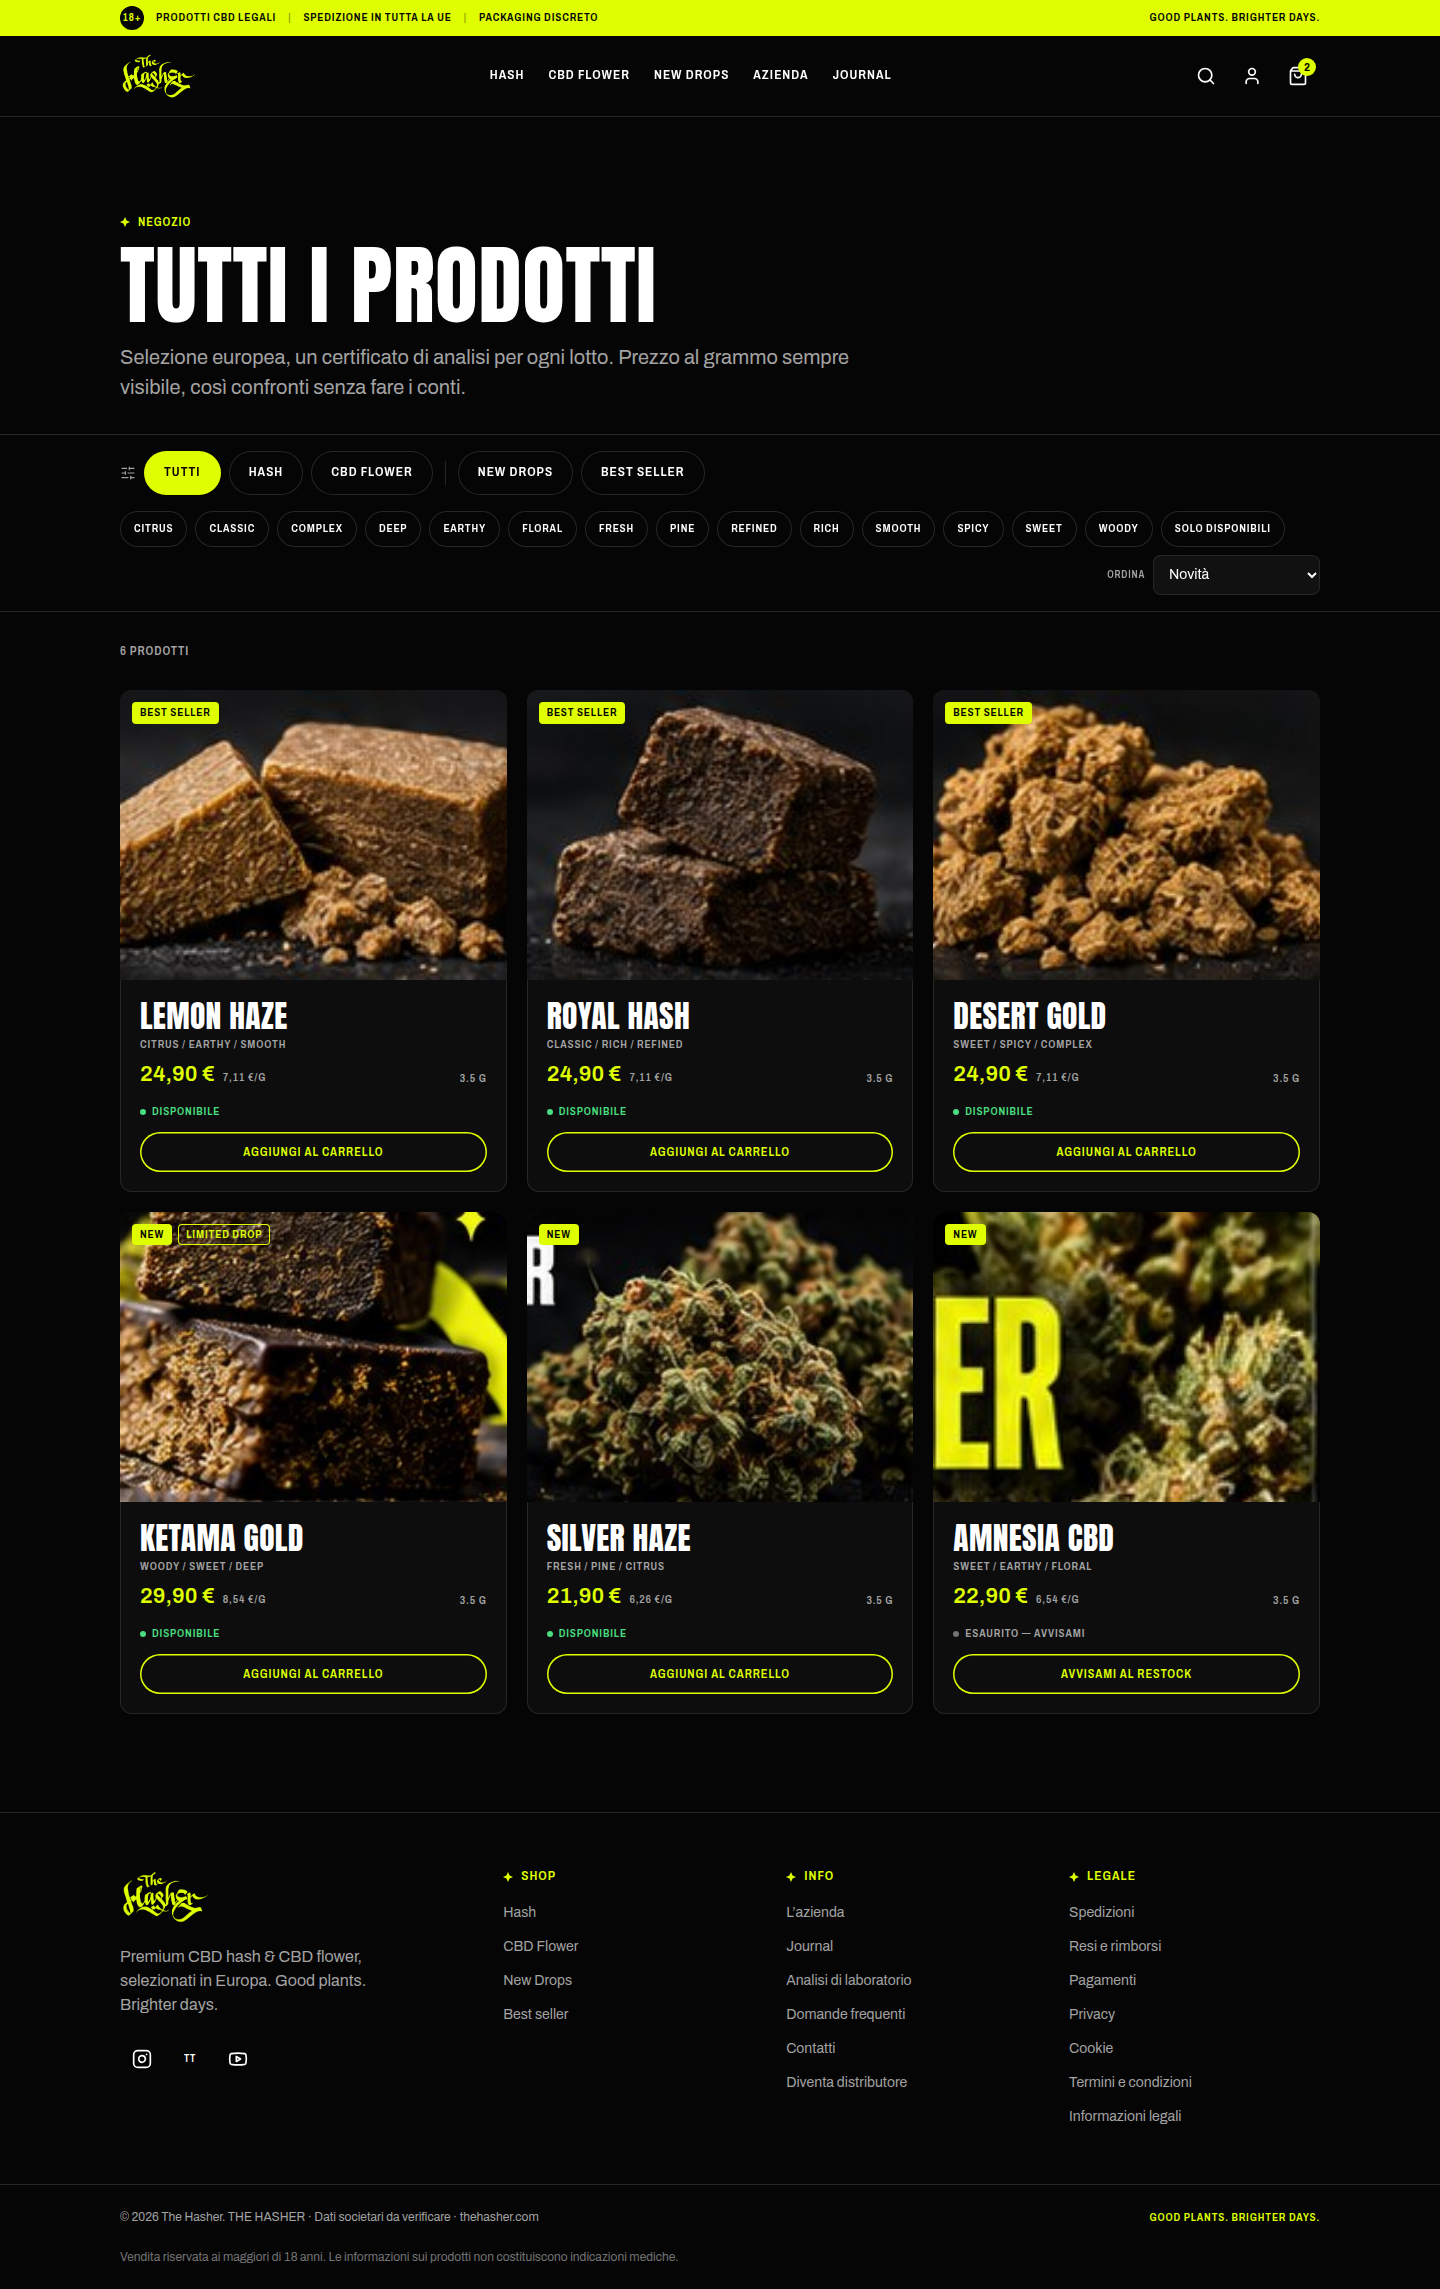
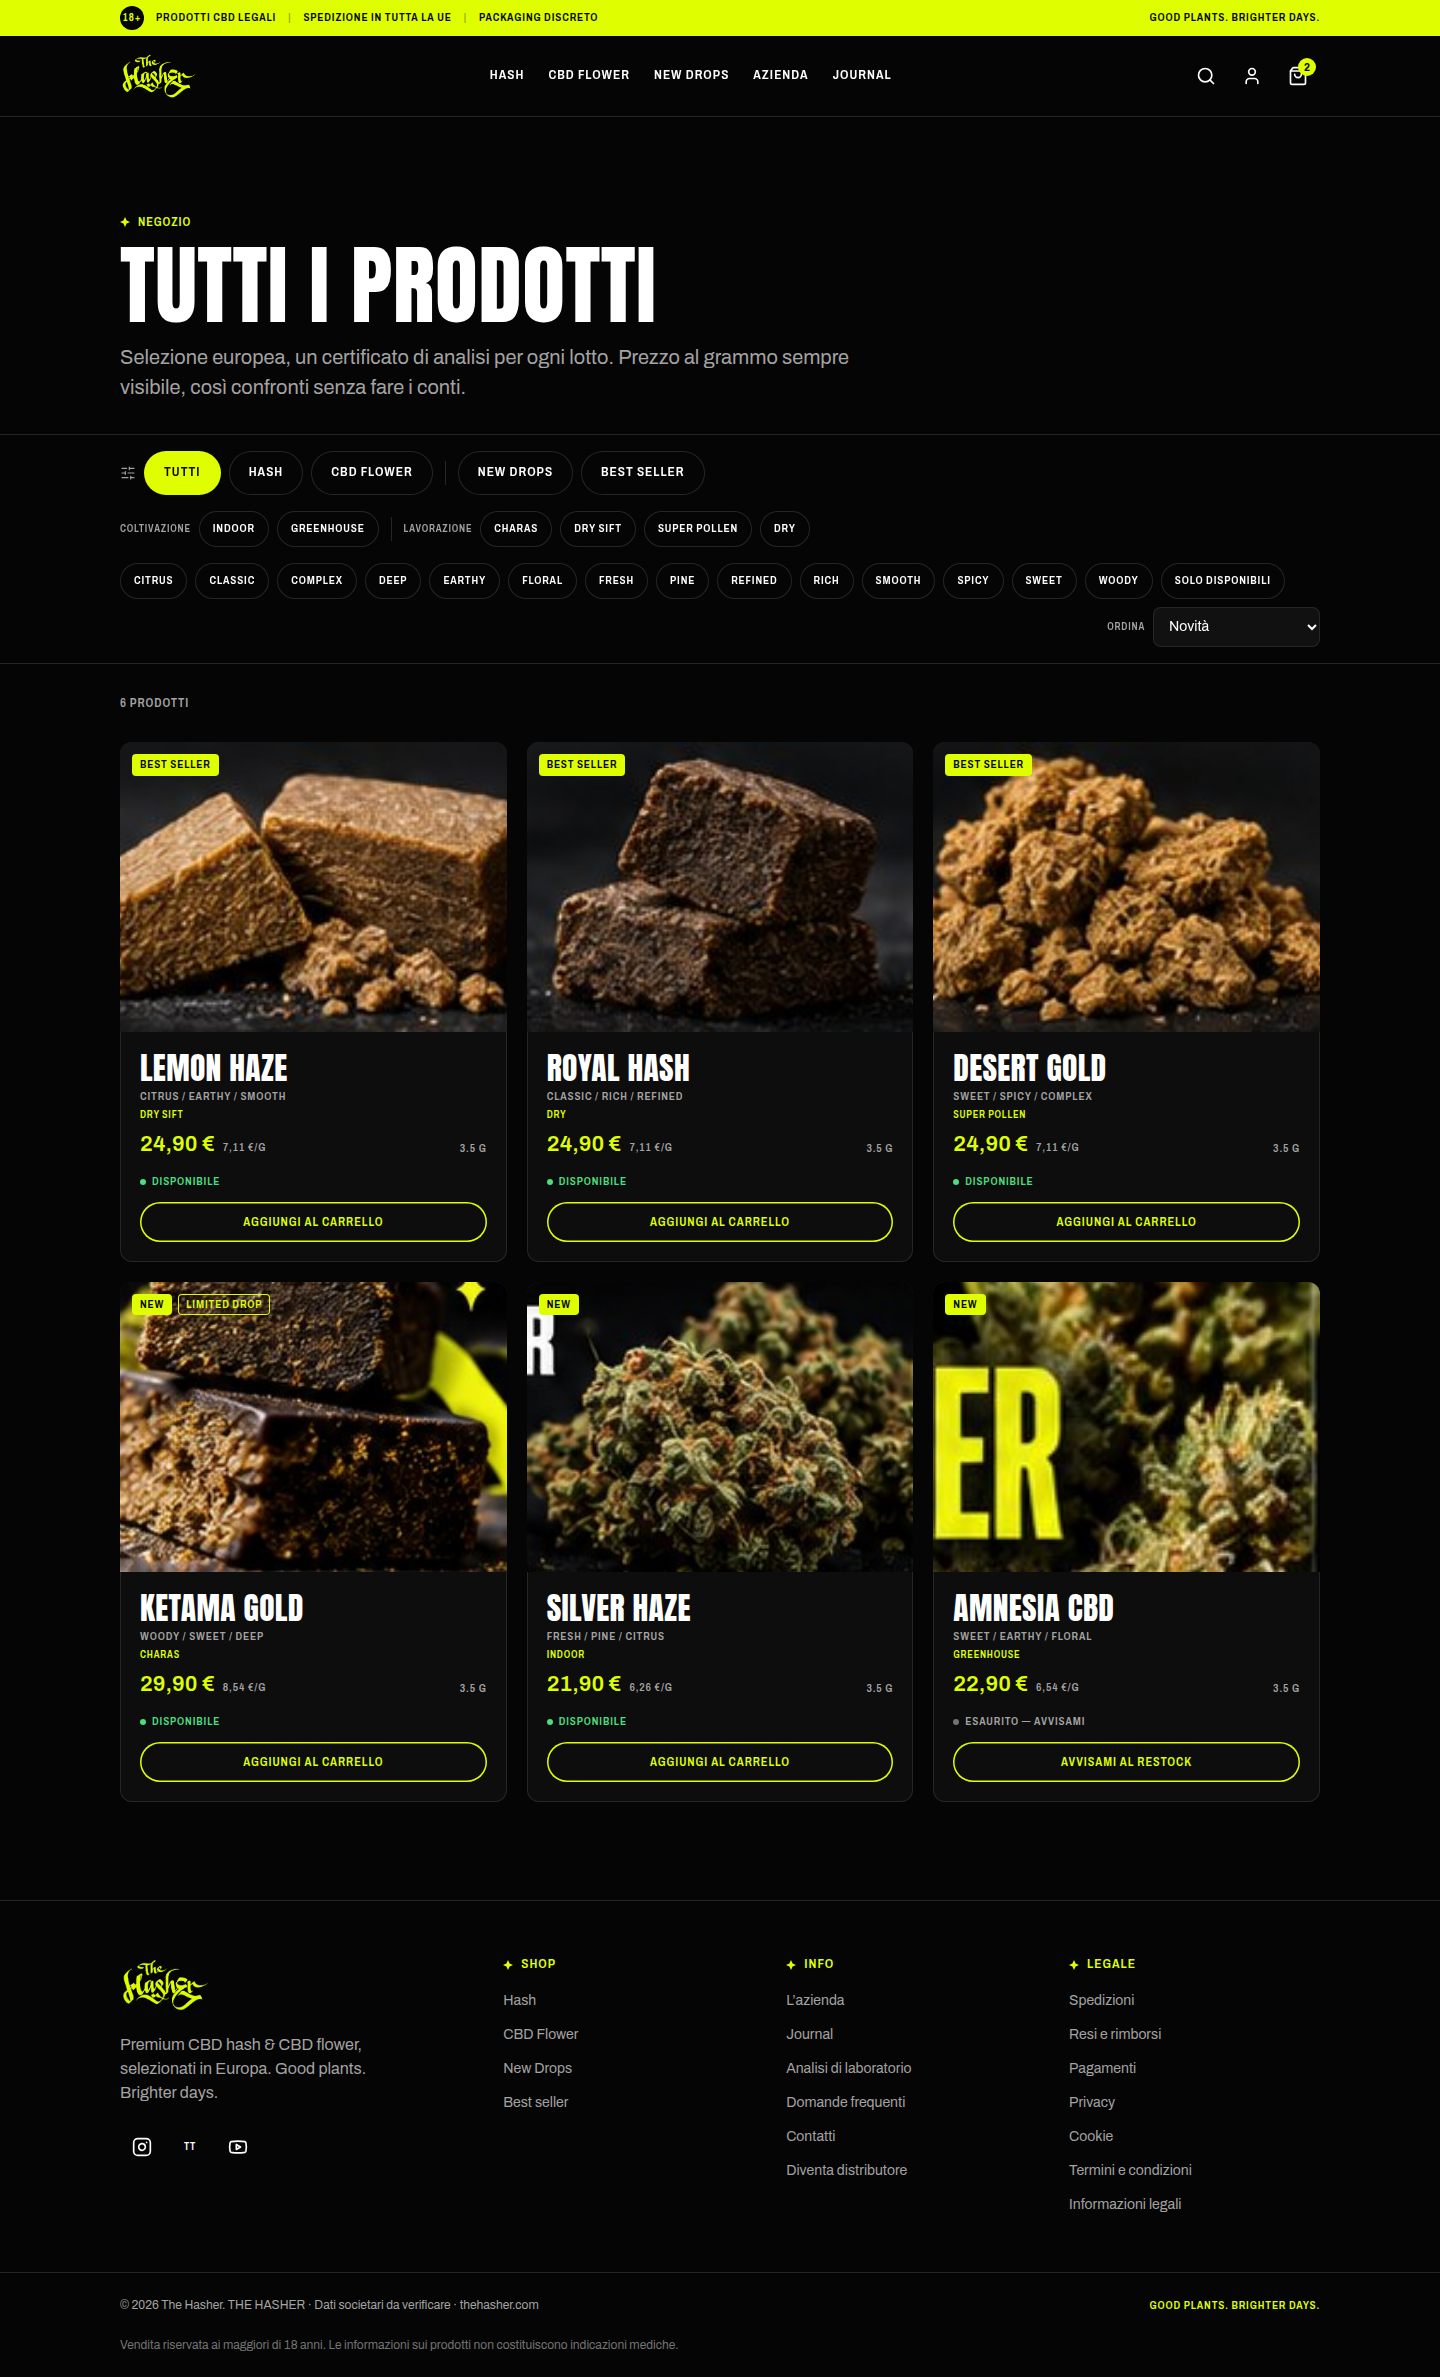
Catalogo pronto per coltivazione e tipologia di lavorazione
- Nuovi campi prodotto: coltivazione dei fiori (Indoor top, Indoor, Glasshouse,
  Greenhouse, Outdoor) e lavorazione di hash ed estratti (frozen sift, static sift,
  ice-o-lator, bubble ice, charas, super dry sift, dry sift, super pollen, dry,
  semidry, rosin)
- Negozio: due nuove file di filtri, che mostrano solo le voci presenti a catalogo
- Card e pagina prodotto mostrano coltivazione o lavorazione accanto al profilo

Claude-Session: https://claude.ai/code/session_01PPPZbsQhydRMweje4EtK5n

diff --git a/src/pages/Shop.tsx b/src/pages/Shop.tsx
@@ -10,7 +10,7 @@ import { Eyebrow } from '@/components/ui/Eyebrow'
 import { ProductCard } from '@/components/ui/ProductCard'
 import { Reveal } from '@/components/ui/Reveal'
 import { Section } from '@/components/ui/Section'
-import { products } from '@/data/products'
+import { coltivazioni, lavorazioni, products } from '@/data/products'
 import { cn } from '@/lib/cn'
 
 const categorie = {
@@ -27,6 +27,9 @@ const ordinamenti = {
 type Ordine = keyof typeof ordinamenti
 
 const profili = [...new Set(products.flatMap((p) => p.aroma))].sort()
+/** Mostra solo le voci che esistono davvero a catalogo. */
+const coltivazioniUsate = coltivazioni.filter((c) => products.some((p) => p.coltivazione === c))
+const lavorazioniUsate = lavorazioni.filter((l) => products.some((p) => p.lavorazione === l))
 
 export default function Shop() {
   const [params, setParams] = useSearchParams()
@@ -34,6 +37,8 @@ export default function Shop() {
   const profilo = params.get('profilo')
   const soloDisponibili = params.get('disponibili') === 'si'
   const badge = params.get('badge') // 'New' | 'Best seller' | 'Limited drop'
+  const coltivazione = params.get('coltivazione')
+  const lavorazione = params.get('lavorazione')
   const ordine = (params.get('ordine') as Ordine) ?? 'novita'
 
   /** Aggiorna un filtro nell'indirizzo; null lo toglie. */
@@ -50,16 +55,20 @@ export default function Shop() {
     if (profilo) list = list.filter((p) => p.aroma.includes(profilo))
     if (soloDisponibili) list = list.filter((p) => p.inStock)
     if (badge) list = list.filter((p) => p.badges?.includes(badge as never))
+    if (coltivazione) list = list.filter((p) => p.coltivazione === coltivazione)
+    if (lavorazione) list = list.filter((p) => p.lavorazione === lavorazione)
     if (ordine === 'prezzo-basso') list = [...list].sort((a, b) => a.price - b.price)
     if (ordine === 'prezzo-alto') list = [...list].sort((a, b) => b.price - a.price)
     return list
-  }, [categoria, profilo, soloDisponibili, badge, ordine])
+  }, [categoria, profilo, soloDisponibili, badge, coltivazione, lavorazione, ordine])
 
   const attivi = [
     categoria && { key: 'categoria', label: categorie[categoria] },
     profilo && { key: 'profilo', label: profilo },
     soloDisponibili && { key: 'disponibili', label: 'Solo disponibili' },
     badge && { key: 'badge', label: badge },
+    coltivazione && { key: 'coltivazione', label: coltivazione },
+    lavorazione && { key: 'lavorazione', label: lavorazione },
   ].filter(Boolean) as { key: string; label: string }[]
 
   return (
@@ -117,6 +126,33 @@ export default function Shop() {
             >
               Best seller
             </Chip>
+          </div>
+
+          {/* Coltivazione (fiori) e lavorazione (hash): gli assi veri del catalogo */}
+          <div className="flex items-center gap-2 overflow-x-auto pb-1">
+            <span className="shrink-0 label text-[0.625rem] text-fg-muted">Coltivazione</span>
+            {coltivazioniUsate.map((c) => (
+              <Chip
+                key={c}
+                size="sm"
+                active={coltivazione === c}
+                onClick={() => setFilter('coltivazione', coltivazione === c ? null : c)}
+              >
+                {c}
+              </Chip>
+            ))}
+            <span aria-hidden="true" className="mx-1 h-6 w-px shrink-0 bg-line" />
+            <span className="shrink-0 label text-[0.625rem] text-fg-muted">Lavorazione</span>
+            {lavorazioniUsate.map((l) => (
+              <Chip
+                key={l}
+                size="sm"
+                active={lavorazione === l}
+                onClick={() => setFilter('lavorazione', lavorazione === l ? null : l)}
+              >
+                {l}
+              </Chip>
+            ))}
           </div>
 
           <div className="flex flex-wrap items-center gap-2">

diff --git a/src/data/products.ts b/src/data/products.ts
@@ -12,6 +12,26 @@ export type Variant = {
   inStock: boolean
 }
 
+/** Come è stato coltivato un fiore. Dal più pregiato al più economico. */
+export const coltivazioni = ['Indoor top', 'Indoor', 'Glasshouse', 'Greenhouse', 'Outdoor'] as const
+export type Coltivazione = (typeof coltivazioni)[number]
+
+/** Come è stato lavorato un hash o un estratto. */
+export const lavorazioni = [
+  'Frozen sift',
+  'Static sift',
+  'Ice-o-lator',
+  'Bubble ice',
+  'Charas',
+  'Super dry sift',
+  'Dry sift',
+  'Super pollen',
+  'Dry',
+  'Semidry',
+  'Rosin',
+] as const
+export type Lavorazione = (typeof lavorazioni)[number]
+
 export type Product = {
   slug: string
   name: string
@@ -29,6 +49,10 @@ export type Product = {
   /** Galleria della pagina prodotto (la prima è la principale) */
   gallery?: { src: string; alt: string }[]
   origin: string
+  /** Solo per i fiori: tipo di coltivazione */
+  coltivazione?: Coltivazione
+  /** Solo per hash ed estratti: tecnica di lavorazione */
+  lavorazione?: Lavorazione
   short: string
   /** Formati acquistabili */
   variants?: Variant[]
@@ -47,6 +71,7 @@ export type Product = {
 export const products: Product[] = [
   {
     slug: 'lemon-haze',
+    lavorazione: 'Dry sift',
     name: 'Lemon Haze',
     category: 'hash',
     aroma: ['Citrus', 'Earthy', 'Smooth'],
@@ -113,6 +138,7 @@ export const products: Product[] = [
   },
   {
     slug: 'royal-hash',
+    lavorazione: 'Dry',
     name: 'Royal Hash',
     category: 'hash',
     aroma: ['Classic', 'Rich', 'Refined'],
@@ -126,6 +152,7 @@ export const products: Product[] = [
   },
   {
     slug: 'desert-gold',
+    lavorazione: 'Super pollen',
     name: 'Desert Gold',
     category: 'hash',
     aroma: ['Sweet', 'Spicy', 'Complex'],
@@ -139,6 +166,7 @@ export const products: Product[] = [
   },
   {
     slug: 'ketama-gold',
+    lavorazione: 'Charas',
     name: 'Ketama Gold',
     category: 'hash',
     aroma: ['Woody', 'Sweet', 'Deep'],
@@ -152,6 +180,7 @@ export const products: Product[] = [
   },
   {
     slug: 'silver-haze-cbd',
+    coltivazione: 'Indoor',
     name: 'Silver Haze',
     category: 'flower',
     aroma: ['Fresh', 'Pine', 'Citrus'],
@@ -165,6 +194,7 @@ export const products: Product[] = [
   },
   {
     slug: 'amnesia-cbd',
+    coltivazione: 'Greenhouse',
     name: 'Amnesia CBD',
     category: 'flower',
     aroma: ['Sweet', 'Earthy', 'Floral'],

diff --git a/src/pages/Product.tsx b/src/pages/Product.tsx
@@ -130,7 +130,17 @@ export default function Product() {
             )}
             <Eyebrow>{categoryLabel}</Eyebrow>
             <h1 className="mt-3 text-h1">{product.name}</h1>
-            <p className="mt-3 label text-[0.75rem] text-fg-muted">{product.aroma.join(' / ')}</p>
+            <p className="mt-3 label text-[0.75rem] text-fg-muted">
+              {product.aroma.join(' / ')}
+              {(product.coltivazione ?? product.lavorazione) && (
+                <>
+                  {' · '}
+                  <span className="text-primary">
+                    {product.coltivazione ?? product.lavorazione}
+                  </span>
+                </>
+              )}
+            </p>
             <p className="mt-4 max-w-prose text-lead text-fg-muted">{product.short}</p>
           </div>
 

diff --git a/src/components/ui/ProductCard.tsx b/src/components/ui/ProductCard.tsx
@@ -48,6 +48,11 @@ export function ProductCard({ product, className }: { product: Product; classNam
             </Link>
           </h3>
           <p className="mt-1.5 label text-[0.6875rem] text-fg-muted">{product.aroma.join(' / ')}</p>
+          {(product.coltivazione ?? product.lavorazione) && (
+            <p className="mt-1.5 label text-[0.625rem] text-primary">
+              {product.coltivazione ?? product.lavorazione}
+            </p>
+          )}
         </div>
         <div className="flex items-end justify-between gap-3">
           <Price cents={product.price} compareAt={product.compareAt} grams={product.grams} />

diff --git a/design/DECISIONS.md b/design/DECISIONS.md
@@ -41,3 +41,5 @@
 - 2026-09-27 · Categorie, New drops e Best seller sono il negozio filtrato, non pagine separate · una pagina sola da mantenere
 - 2026-09-27 · Le sette pagine legali nascono da un impianto comune, con avviso «bozza da far validare» dove serve · struttura pronta, testi da consulente
 - 2026-09-27 · Verifica 18+ e banner cookie attivi; lo script screenshot li pre-accetta · altrimenti coprirebbero ogni pagina catturata
+- 2026-09-27 · Catalogo predisposto sui due assi che contano: coltivazione dei fiori (Indoor top, Indoor, Glasshouse, Greenhouse, Outdoor) e lavorazione di hash ed estratti (frozen sift, static sift, ice-o-lator, bubble ice, charas, super dry sift, dry sift, super pollen, dry, semidry, rosin) · quando arriva il catalogo vero basta assegnare i valori, filtri e schede sono già pronti
+- 2026-09-27 · roican.shop e Google Drive non sono raggiungibili dalle sessioni remote (policy di rete dell'ambiente) · i materiali vanno allegati in chat, messi nel repo, oppure il dominio va aggiunto tra quelli consentiti nelle impostazioni dell'ambiente
